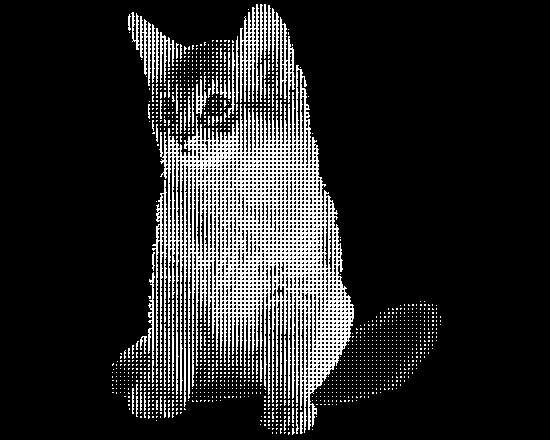
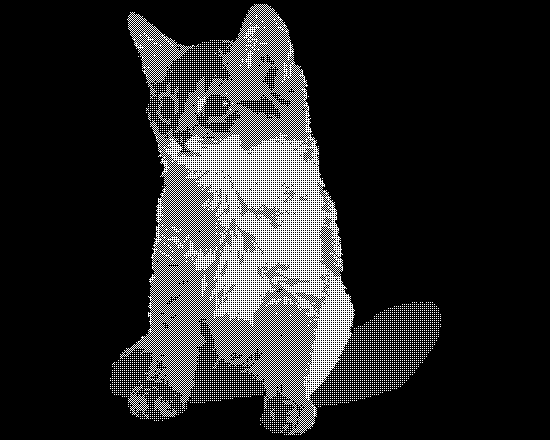
feat: Refactor Bayer matrix generation for clarity

Changed region(s): [[0.1855, 0.0, 0.8036, 1.0]]

diff --git a/src/ordered_dithering.rs b/src/ordered_dithering.rs
@@ -31,10 +31,9 @@ pub fn apply_ordered_dithering(input: String, output: Option<String>, n: u32) ->
 }
 
 fn generate_bayer_matrix(n: u32) -> Vec<Vec<f32>> {
-    let size = 2_usize.pow(n); // Tamaño de la matriz (2^n)
-    let mut matrix = vec![vec![0_u32; size]; size]; // Inicializa una matriz vacía
+    let size = 2_usize.pow(n);
+    let mut matrix = vec![vec![0_u32; size]; size];
 
-    // Función recursiva para construir la matriz de Bayer
     fn fill_bayer(matrix: &mut Vec<Vec<u32>>, x: usize, y: usize, size: usize, value: u32) {
         if size == 1 {
             matrix[x][y] = value;
@@ -44,10 +43,10 @@ fn generate_bayer_matrix(n: u32) -> Vec<Vec<f32>> {
         let half = size / 2;
         let factor = (size * size / 4) as u32;
 
-        fill_bayer(matrix, x, y, half, value); // Cuadrante superior izquierdo
-        fill_bayer(matrix, x, y + half, half, value + factor * 1); // Superior derecho
-        fill_bayer(matrix, x + half, y, half, value + factor * 2); // Inferior izquierdo
-        fill_bayer(matrix, x + half, y + half, half, value + factor * 3); // Inferior derecho
+        fill_bayer(matrix, x, y, half, value + factor * 0);
+        fill_bayer(matrix, x + half, y, half, value + factor * 3);
+        fill_bayer(matrix, x, y + half, half, value + factor * 2);
+        fill_bayer(matrix, x + half, y + half, half, value + factor * 1);
     }
 
     fill_bayer(&mut matrix, 0, 0, size, 0);
